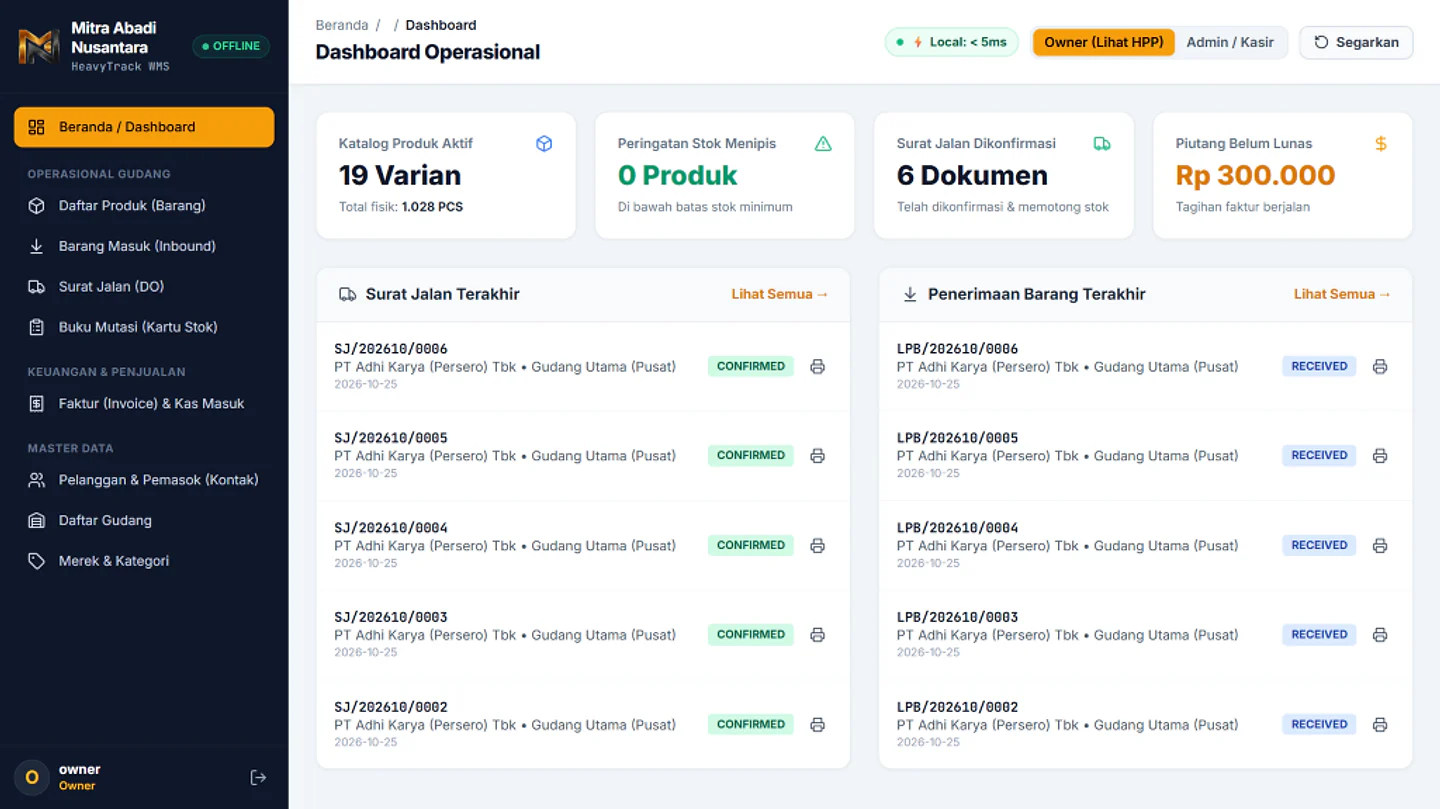
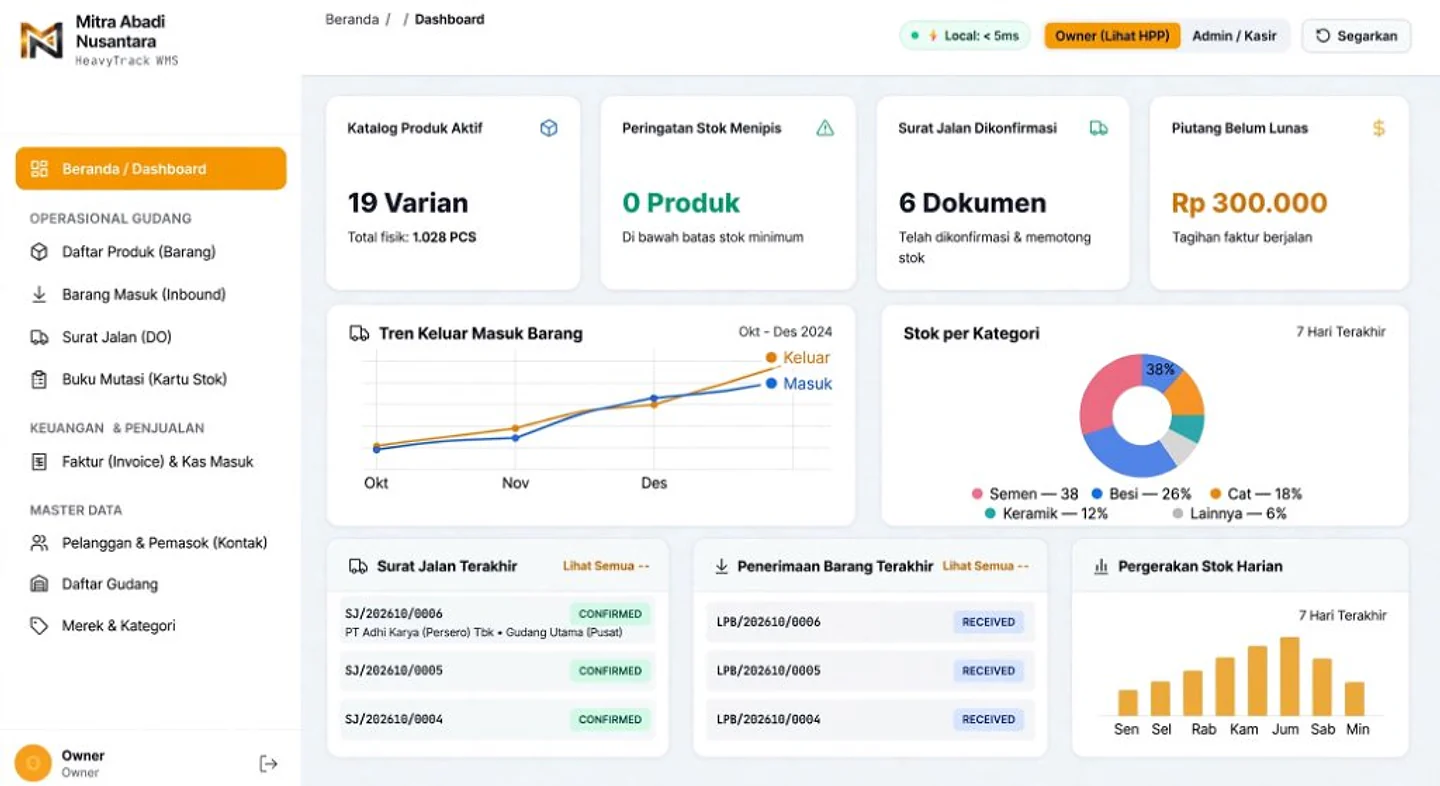
Update KINETIC & HeavyTrack HD WebP covers and rebalance Hero + Works with Website Modern and AI Automation

diff --git a/src/components/significa/SignificaHero.tsx b/src/components/significa/SignificaHero.tsx
@@ -16,45 +16,45 @@ const SHOWREEL_SLIDES = [
     shortName: "Look.u AI",
     client: "Look.u AI",
     image: "/images/portfolio/looku-ai.webp",
-    alt: "Antarmuka editorial fashion Look.u AI — rekomendasi Casual Campus Chiffon ramah iklim tropis Jakarta 33°C",
+    alt: "Antarmuka editorial fashion Look.u AI — rekomendasi Casual Campus Chiffon ramah iklim tropis",
     href: "/karya/looku-ai",
     bg: "#F0F0F0",
+  },
+  {
+    id: "kinetic",
+    shortName: "KINETIC Web",
+    client: "KINETIC Tech Gym",
+    image: "/images/portfolio/kinetic-fitness.webp",
+    alt: "Website brand modern KINETIC Tech Gym dengan tipografi tegas dan pendaftaran QR member pass",
+    href: "/karya/kinetic-fitness",
+    bg: "#CFD1D6",
+  },
+  {
+    id: "ai-automation",
+    shortName: "AI Automation",
+    client: "AI CV Screening (n8n)",
+    image: "/images/portfolio/ai-cv-screening.webp",
+    alt: "Workflow otomasi seleksi CV berbasis AI Blind-Screening dan n8n",
+    href: "/karya/ai-cv-screening",
+    bg: "#4C5466",
   },
   {
     id: "propsmart",
     shortName: "PropSmart",
     client: "PropSmart SaaS",
     image: "/images/portfolio/propsmart-saas.webp",
-    alt: "PropSmart Executive Financial & Occupancy Dashboard menampilkan 32 kamar, Net Rental Yield 9.45%, dan estimasi harga ML Ridge",
+    alt: "PropSmart Executive Financial & Occupancy Dashboard menampilkan status kamar dan arus kas",
     href: "/karya/propsmart-saas",
     bg: "#E2E6EB",
-  },
-  {
-    id: "smartpos",
-    shortName: "Toko Ritel POS",
-    client: "Toko Ritel POS (SmartPOS)",
-    image: "/images/portfolio/toko-amen-snack.webp",
-    alt: "Tampilan sistem katalog & kasir Toko Ritel POS (SmartPOS) terintegrasi stok 1.446 SKU dan pemesanan cepat",
-    href: "/karya/smartpos-aneka-rasa",
-    bg: "#FFFFFF",
   },
   {
     id: "logisync",
     shortName: "LogiSync",
     client: "LogiSync (Fleet.OS)",
     image: "/images/portfolio/logisync-fleet.webp",
-    alt: "Pusat Kendali LogiSync (Fleet.OS) menampilkan Tingkat OTD 94.5%, Armada Aktif 42/50, peta GPS langsung, dan Tren Kapasitas Gudang",
+    alt: "Pusat Kendali LogiSync (Fleet.OS) menampilkan peta GPS armada langsung dan kapasitas gudang",
     href: "/karya/logisync-fleet",
     bg: "#ECECF1",
-  },
-  {
-    id: "lacak-korupsi",
-    shortName: "Lacak Korupsi",
-    client: "Lacak Korupsi",
-    image: "/images/portfolio/lacak-korupsi.webp",
-    alt: "Peta Sebaran Kasus Lacak Korupsi menampilkan grafik kerugian negara 16 provinsi dan peringkat intensitas wilayah",
-    href: "/karya/lacak-korupsi",
-    bg: "#1E263D",
   },
 ];
 

diff --git a/src/data/significa-work.ts b/src/data/significa-work.ts
@@ -138,7 +138,7 @@ export const SIGNIFICA_WORK_ITEMS: CaseStudyItem[] = [
   },
   {
     slug: "heavytrack-wms",
-    tier: "archive",
+    tier: "featured",
     client: "HeavyTrack WMS.",
     tagline: "Sistem gudang suku cadang alat berat offline-first & cetak Surat Jalan.",
     sector: "Industrial WMS",
@@ -148,11 +148,11 @@ export const SIGNIFICA_WORK_ITEMS: CaseStudyItem[] = [
     images: [
       {
         src: "/images/portfolio/heavytrack-wms.webp",
-        alt: "Dashboard Operasional HeavyTrack WMS menampilkan mutasi Surat Jalan dan Penerimaan Barang",
-        caption: "Dashboard operasional gudang berjalan lokal di jaringan LAN tanpa ketergantungan internet",
+        alt: "Dashboard HeavyTrack WMS Mitra Abadi Nusantara menampilkan tren keluar masuk barang, stok per kategori, Surat Jalan, dan Penerimaan Barang",
+        caption: "Dashboard gudang modern Mitra Abadi Nusantara — tren mutasi stok, Surat Jalan, dan penerimaan barang",
         fit: "top",
         width: 1440,
-        height: 809,
+        height: 786,
       },
     ],
     problem:
@@ -590,21 +590,21 @@ export const SIGNIFICA_WORK_ITEMS: CaseStudyItem[] = [
   },
   {
     slug: "kinetic-fitness",
-    tier: "archive",
+    tier: "featured",
     client: "KINETIC Fitness.",
-    tagline: "Platform gym multi-cabang, pilih posisi kelas studio & akses QR dinamis.",
-    sector: "Fitness Tech & IoT",
-    scope: "Member App & IoT Gate Access",
+    tagline: "Website brand gym modern multi-cabang, booking kelas & akses QR dinamis.",
+    sector: "Website Brand & Fitness Tech",
+    scope: "Modern Brand Web & IoT Gate",
     year: "2026",
     techStack: ["Next.js", "Supabase", "React Native", "IoT Gate"],
     images: [
       {
         src: "/images/portfolio/kinetic-fitness.webp",
-        alt: "Antarmuka platform KINETIC Fitness menampilkan keanggotaan dan akses QR",
-        caption: "Ekosistem digital keanggotaan gym multi-cabang dengan tema gelap modern",
+        alt: "Website brand modern KINETIC Tech Gym dengan tipografi tegas, foto studio, dan akses QR member pass",
+        caption: "Website brand modern KINETIC Tech Gym — pendaftaran cepat, pilih cabang, dan akses gerbang QR",
         fit: "top",
         width: 1440,
-        height: 1080,
+        height: 1074,
       },
     ],
     problem:

diff --git a/src/components/significa/SignificaSelectedWork.tsx b/src/components/significa/SignificaSelectedWork.tsx
@@ -11,28 +11,28 @@ import {
 } from "@/data/significa-work";
 import { ClayReveal } from "./ClayReveal";
 
-// Clay signature staggered 2-column selection (8 crisp HD WebP visual case studies)
+// Clay signature staggered 2-column selection (10 crisp HD WebP case studies covering Web, ERP/POS & AI Automation)
 const LEFT_COLUMN_SLUGS = [
+  "looku-ai",
   "propsmart-saas",
-  "logisync-fleet",
+  "heavytrack-wms",
   "central-scaffolding",
   "ai-cv-screening",
 ];
 
 const RIGHT_COLUMN_SLUGS = [
+  "kinetic-fitness",
   "smartpos-aneka-rasa",
+  "logisync-fleet",
   "lacak-korupsi",
-  "looku-ai",
   "ypi-al-fuad",
 ];
 
-// Remaining 8 real scratch projects cleanly revealed via Clay's "Explore all work ->" control
+// Remaining 6 real scratch projects cleanly revealed via Clay's "Explore all work ->" control
 const EXTRA_ARCHIVE_SLUGS = [
   "toko-amen-snack",
-  "heavytrack-wms",
   "crew-ai-hris",
   "scalebase-crm",
-  "kinetic-fitness",
   "capstonenews-portal",
   "desahub-simkopdes",
   "siakad-sekolah",
